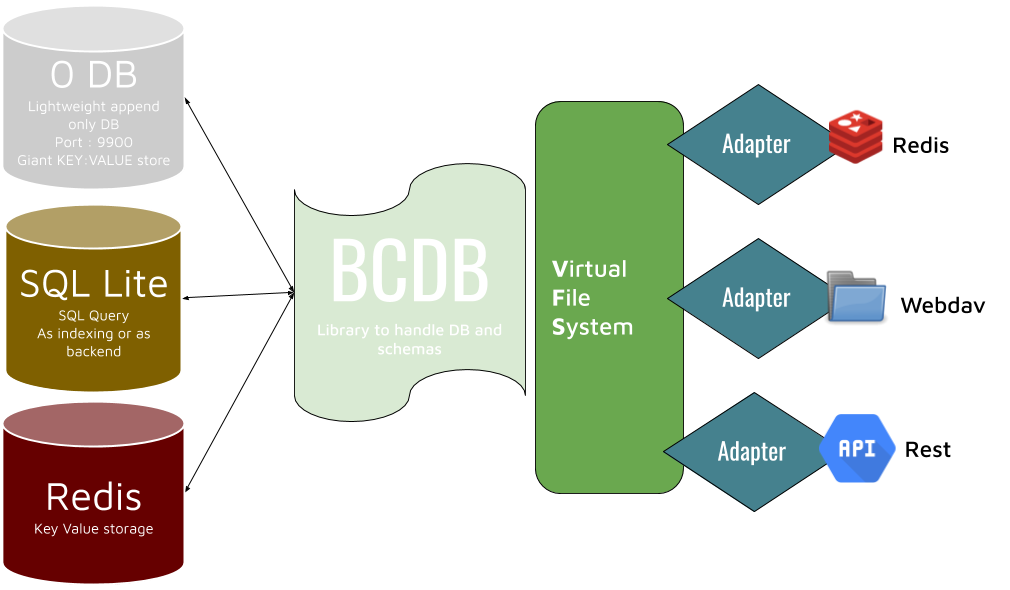
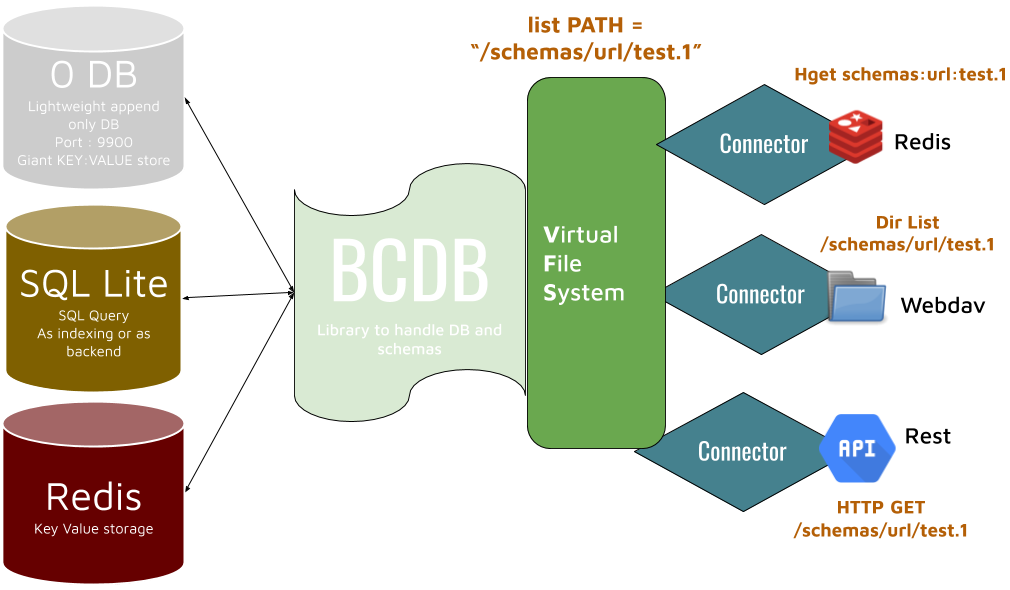
connectors

diff --git a/Jumpscale/data/bcdb/BCDBVFS.py b/Jumpscale/data/bcdb/BCDBVFS.py
@@ -61,12 +61,13 @@ class BCDBVFS(j.application.JSBaseClass):
         _first_level_path: all the paths that are right after root
     """
 
-    def __init__(self, inner_bcdb):
+    def __init__(self, inner_bcdb, serialize_format="json"):
         """
         :param bcbd:  the BCDB
         """
         JSBASE.__init__(self)
         self._dirs_cache = {}
+        # todo add more serializers
         self.serializer = j.data.serializers.json
         self._bcdb = inner_bcdb
         self.root_dir = self._bcdb.name

diff --git a/Jumpscale/data/bcdb/connectors/redis/RedisServer.py b/Jumpscale/data/bcdb/connectors/redis/RedisServer.py
@@ -191,7 +191,7 @@ class RedisServer(j.application.JSBaseClass):
 
     def set(self, response, key, val):
         if key.startswith("schemas"):
-            if key.startswith("schemas:url"):
+            if key.startswith("schemas:url"):  # "/schemas/url vfs.get(path)
                 url = key.split(":")[-1]
                 if not "." in url:
                     response.error("url not properly formatted, needs to be xxx.bbb.aaa")
